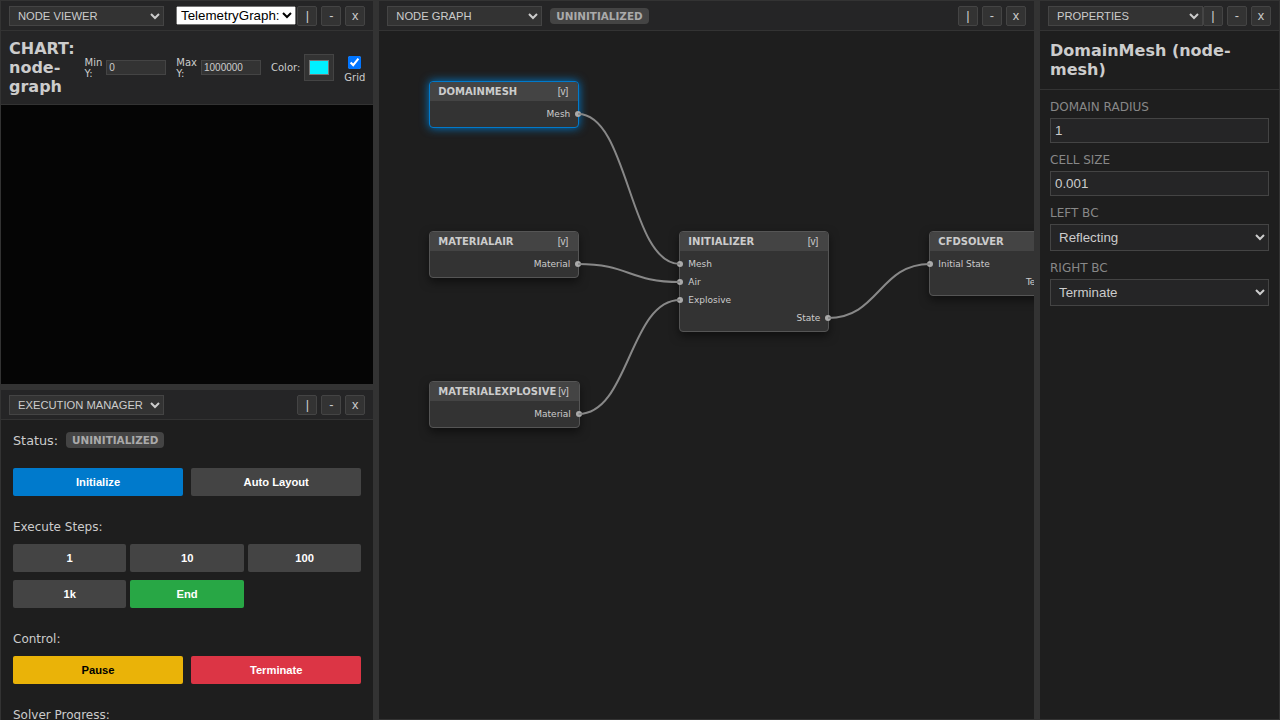
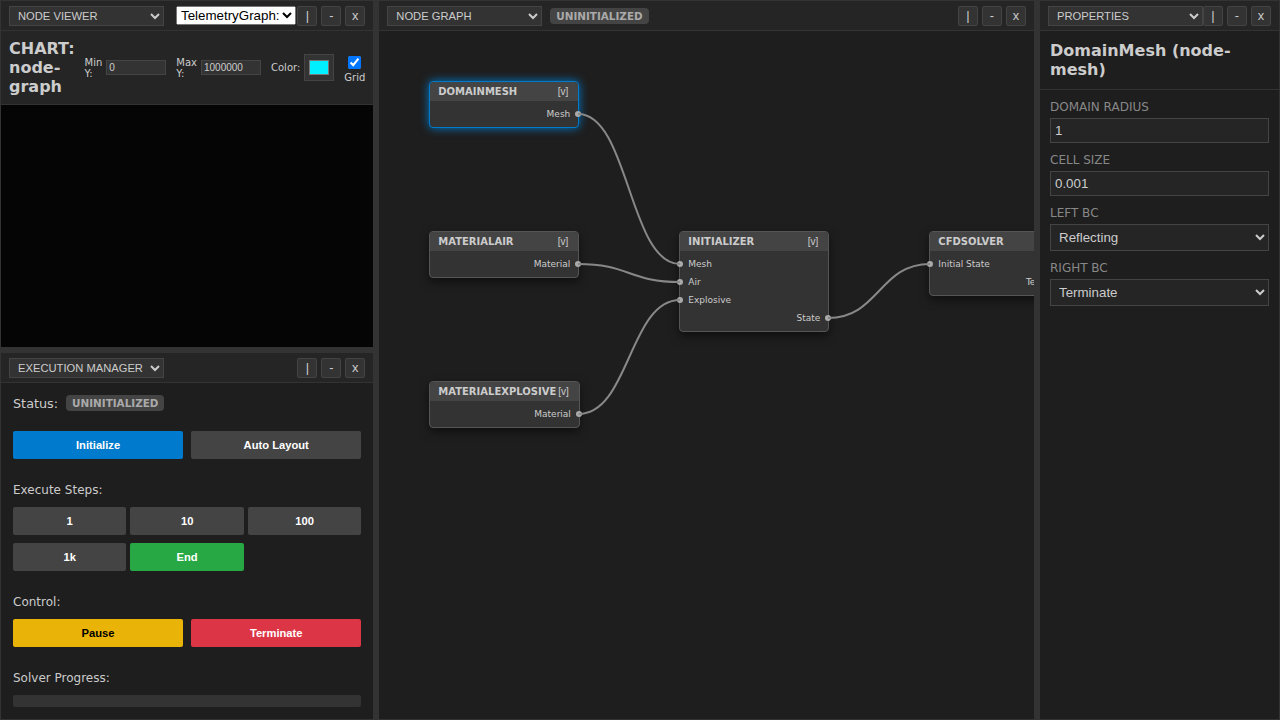
Fix C++ JSON parser crash and flexbox shrink issues
- backend/BlastDaemon/Broker.cpp: Wrap node mapping in try/catch and robustify parameter extraction.
- frontend/src/node-viewer.ts: Set minWidth/minHeight to 0 on containers to allow shrinking in flex layouts.
- frontend/src/ChartWorker.ts: Use requestAnimationFrame for redraw in resize handler.
- verification/verify_ui.py: Fix 'edges' to 'connections' terminology.

Changed region(s): [[0.0, 0.4583, 0.3125, 0.9472], [0.0, 0.9778, 0.0938, 1.0]]

diff --git a/frontend/src/node-viewer.ts b/frontend/src/node-viewer.ts
@@ -27,6 +27,8 @@ export class NodeViewer {
         this.container.style.height = '100%';
         this.container.style.width = '100%';
         this.container.style.overflow = 'hidden';
+        this.container.style.minWidth = '0';
+        this.container.style.minHeight = '0';
         parent.appendChild(this.container);
 
         this.stateManager = stateManager;
@@ -223,6 +225,8 @@ export class NodeViewer {
         canvasCont.style.display = "flex";
         canvasCont.style.flexDirection = "column";
         canvasCont.style.overflow = "hidden";
+        canvasCont.style.minWidth = "0";
+        canvasCont.style.minHeight = "0";
         this.container.appendChild(canvasCont);
 
         this.chartCanvas = document.createElement('canvas');

diff --git a/frontend/src/ChartWorker.ts b/frontend/src/ChartWorker.ts
@@ -124,7 +124,7 @@ self.onmessage = (event) => {
         width = data.width;
         height = data.height;
         // Immediate redraw for smooth scaling
-        render();
+        requestAnimationFrame(render);
         return;
     }
 

diff --git a/backend/BlastDaemon/Broker.cpp b/backend/BlastDaemon/Broker.cpp
@@ -338,30 +338,47 @@ void process_json(const std::string& json, SOCKET_TYPE client_fd, std::shared_pt
             if (end_obj == std::string::npos) break;
             std::string node_json = json.substr(pos, end_obj - pos + 1);
 
-            Node n;
-            n.id = get_json_value(node_json, "id");
-            n.type = get_json_value(node_json, "type");
+            try {
+                Node n;
+                n.id = get_json_value(node_json, "id");
+                n.type = get_json_value(node_json, "type");
 
-            // Extract parameters - very basic extraction
-            size_t param_pos = node_json.find("\"parameters\"");
-            if (param_pos != std::string::npos) {
-                size_t p_start = node_json.find("{", param_pos);
-                size_t p_end = node_json.find("}", p_start);
-                if (p_start != std::string::npos && p_end != std::string::npos) {
-                    std::string p_json = node_json.substr(p_start + 1, p_end - p_start - 1);
-                    // Just one parameter for demonstration
-                    size_t key_start = p_json.find("\"");
-                    if (key_start != std::string::npos) {
-                        size_t key_end = p_json.find("\"", key_start + 1);
-                        std::string key = p_json.substr(key_start + 1, key_end - key_start - 1);
-                        n.parameters[key] = get_json_value(node_json, key);
+                if (n.id.empty()) {
+                    // Try to find any ID if the key was slightly different or missing
+                    n.id = "unknown_" + std::to_string(state.nodes.size());
+                }
+
+                // Extract parameters - robust extraction for multiple keys
+                size_t param_pos = node_json.find("\"parameters\"");
+                if (param_pos != std::string::npos) {
+                    size_t p_start = node_json.find("{", param_pos);
+                    size_t p_end = node_json.find("}", p_start);
+                    if (p_start != std::string::npos && p_end != std::string::npos) {
+                        std::string p_json = node_json.substr(p_start + 1, p_end - p_start - 1);
+                        size_t k_pos = 0;
+                        while ((k_pos = p_json.find("\"", k_pos)) != std::string::npos) {
+                            size_t k_end = p_json.find("\"", k_pos + 1);
+                            if (k_end == std::string::npos) break;
+                            std::string key = p_json.substr(k_pos + 1, k_end - k_pos - 1);
+                            n.parameters[key] = get_json_value(node_json, key);
+                            k_pos = k_end + 1;
+
+                            size_t next_comma = p_json.find(",", k_pos);
+                            if (next_comma == std::string::npos) break;
+                            k_pos = next_comma + 1;
+                        }
                     }
                 }
+                state.nodes.push_back(n);
+                std::cout << "Mapped Node: ID=" << n.id << ", Type=" << n.type << std::endl;
+            } catch (const std::exception& e) {
+                std::cerr << "[JSON ERROR] Failed to map node at pos " << pos << ": " << e.what() << std::endl;
             }
-            state.nodes.push_back(n);
-            std::cout << "Mapped Node: ID=" << n.id << ", Type=" << n.type << std::endl;
+
             pos = end_obj + 1;
-            if (json.find("]", pos) < json.find("{", pos)) break;
+            size_t next_open = json.find("{", pos);
+            size_t next_close_array = json.find("]", pos);
+            if (next_close_array != std::string::npos && (next_open == std::string::npos || next_close_array < next_open)) break;
         }
     }
     std::cout << "Successfully mapped " << state.nodes.size() << " nodes to native structures." << std::endl;

diff --git a/verification/verify_ui.py b/verification/verify_ui.py
@@ -38,8 +38,8 @@ def verify_ui_polish(page: Page):
             id: 'node-graph', type: 'TelemetryGraph', x: 800, y: 300,
             inputs: [{ id: 'in', label: 'Data Stream' }], outputs: [], parameters: {}
         });
-        state.edges.push({ fromNode: 'node-solver', fromPort: 'telemetry', toNode: 'node-text', toPort: 'in' });
-        state.edges.push({ fromNode: 'node-solver', fromPort: 'telemetry', toNode: 'node-graph', toPort: 'in' });
+        state.connections.push({ fromNode: 'node-solver', fromPort: 'telemetry', toNode: 'node-text', toPort: 'in' });
+        state.connections.push({ fromNode: 'node-solver', fromPort: 'telemetry', toNode: 'node-graph', toPort: 'in' });
         window.stateManager.pushState(state);
     """)
     time.sleep(1)
